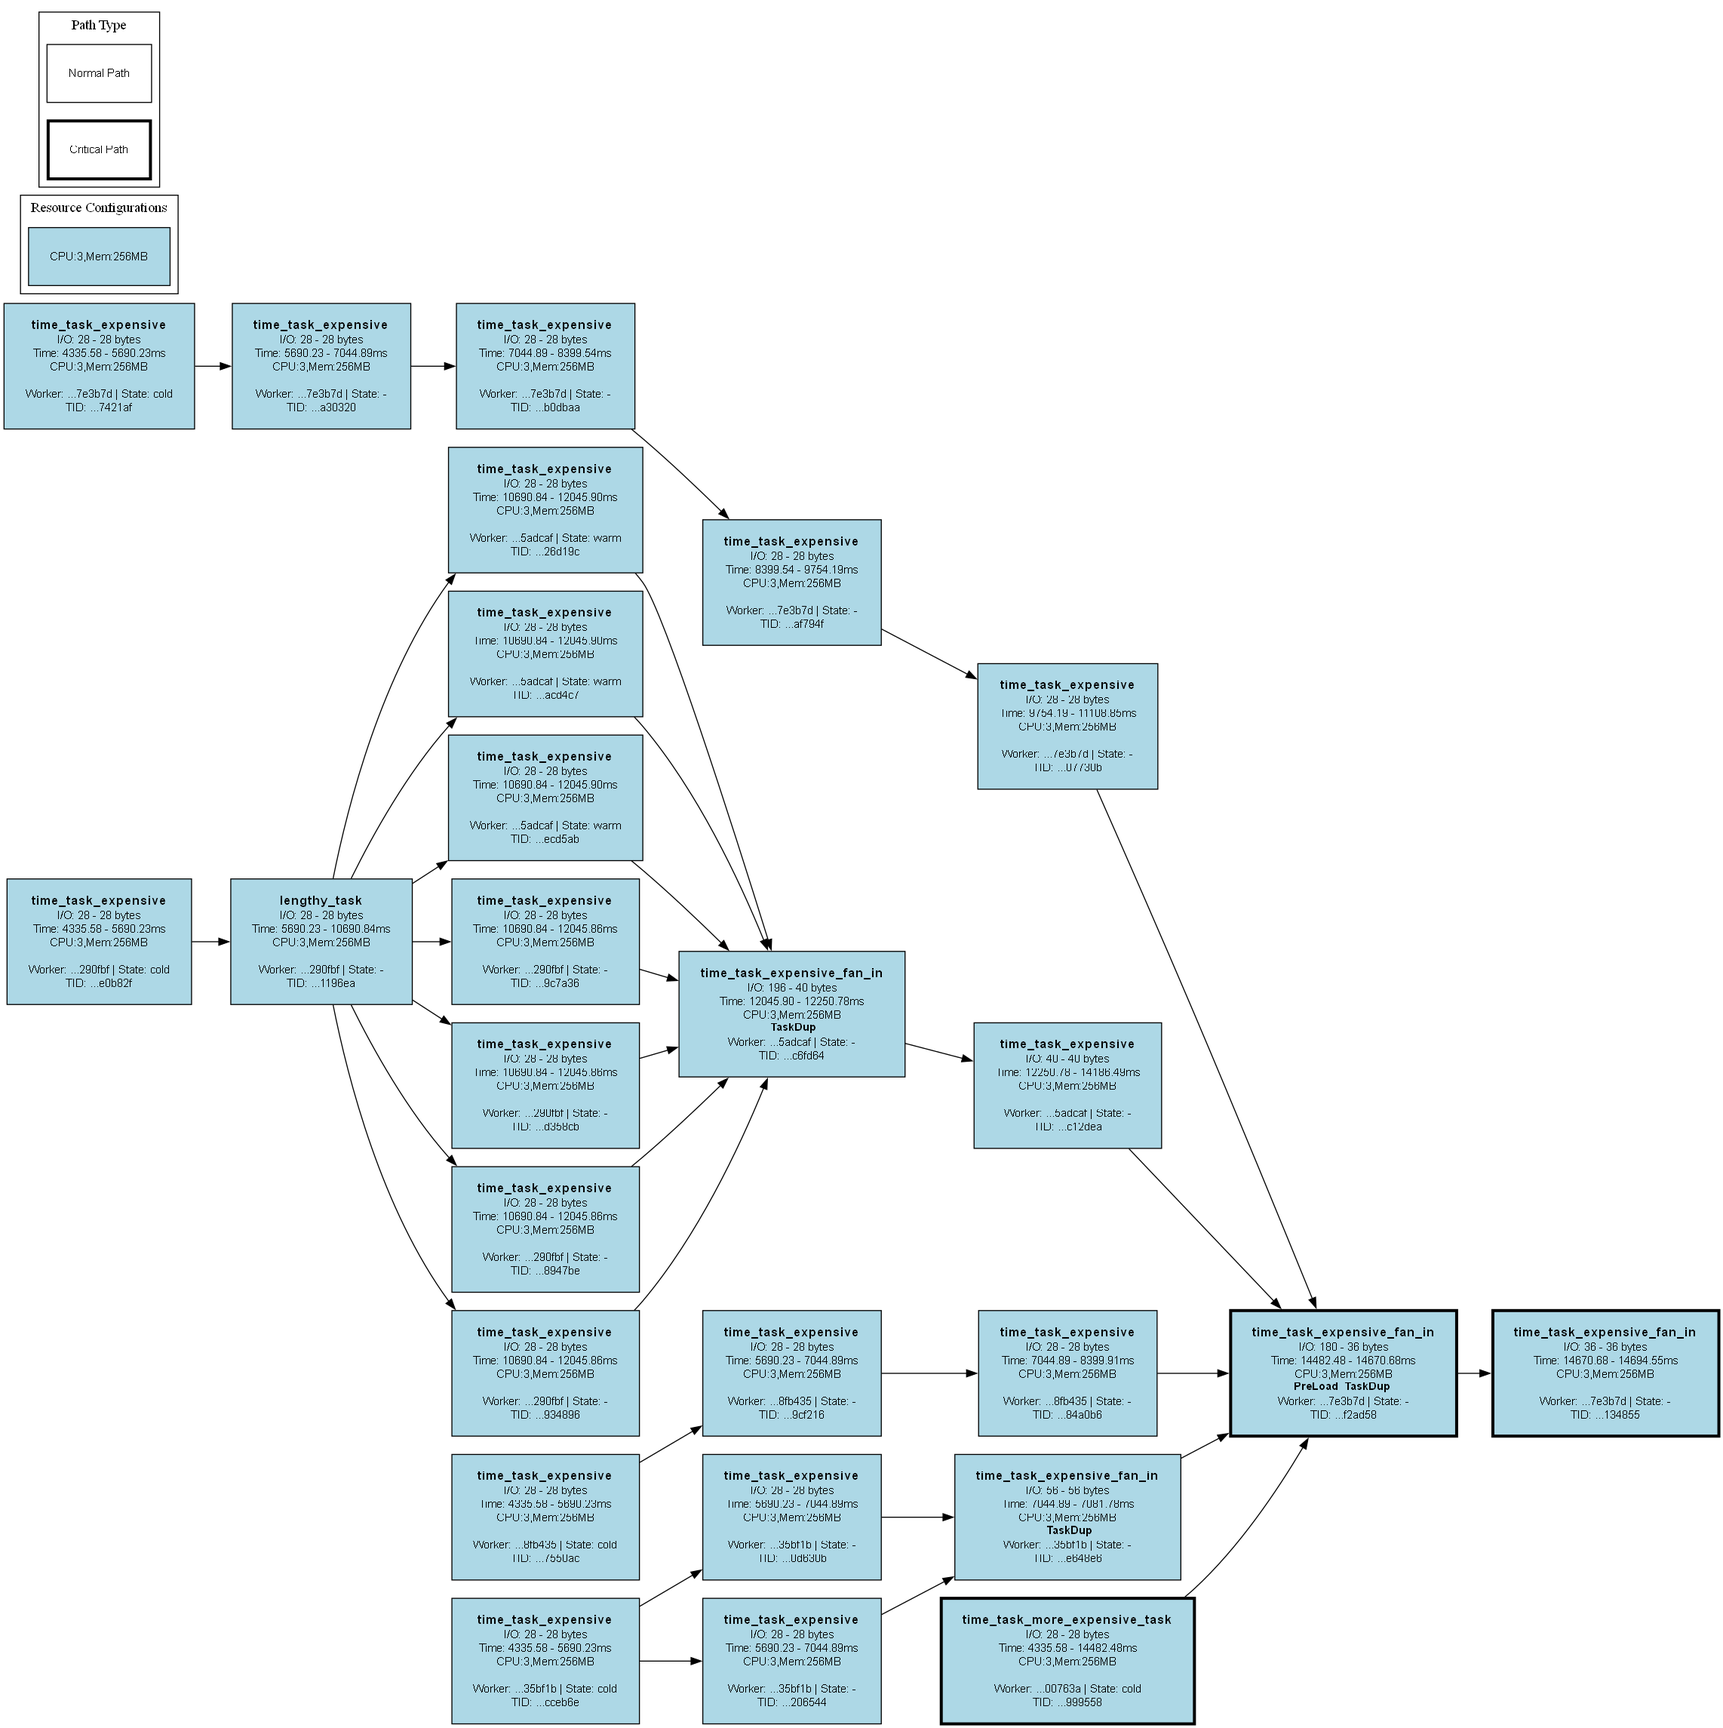
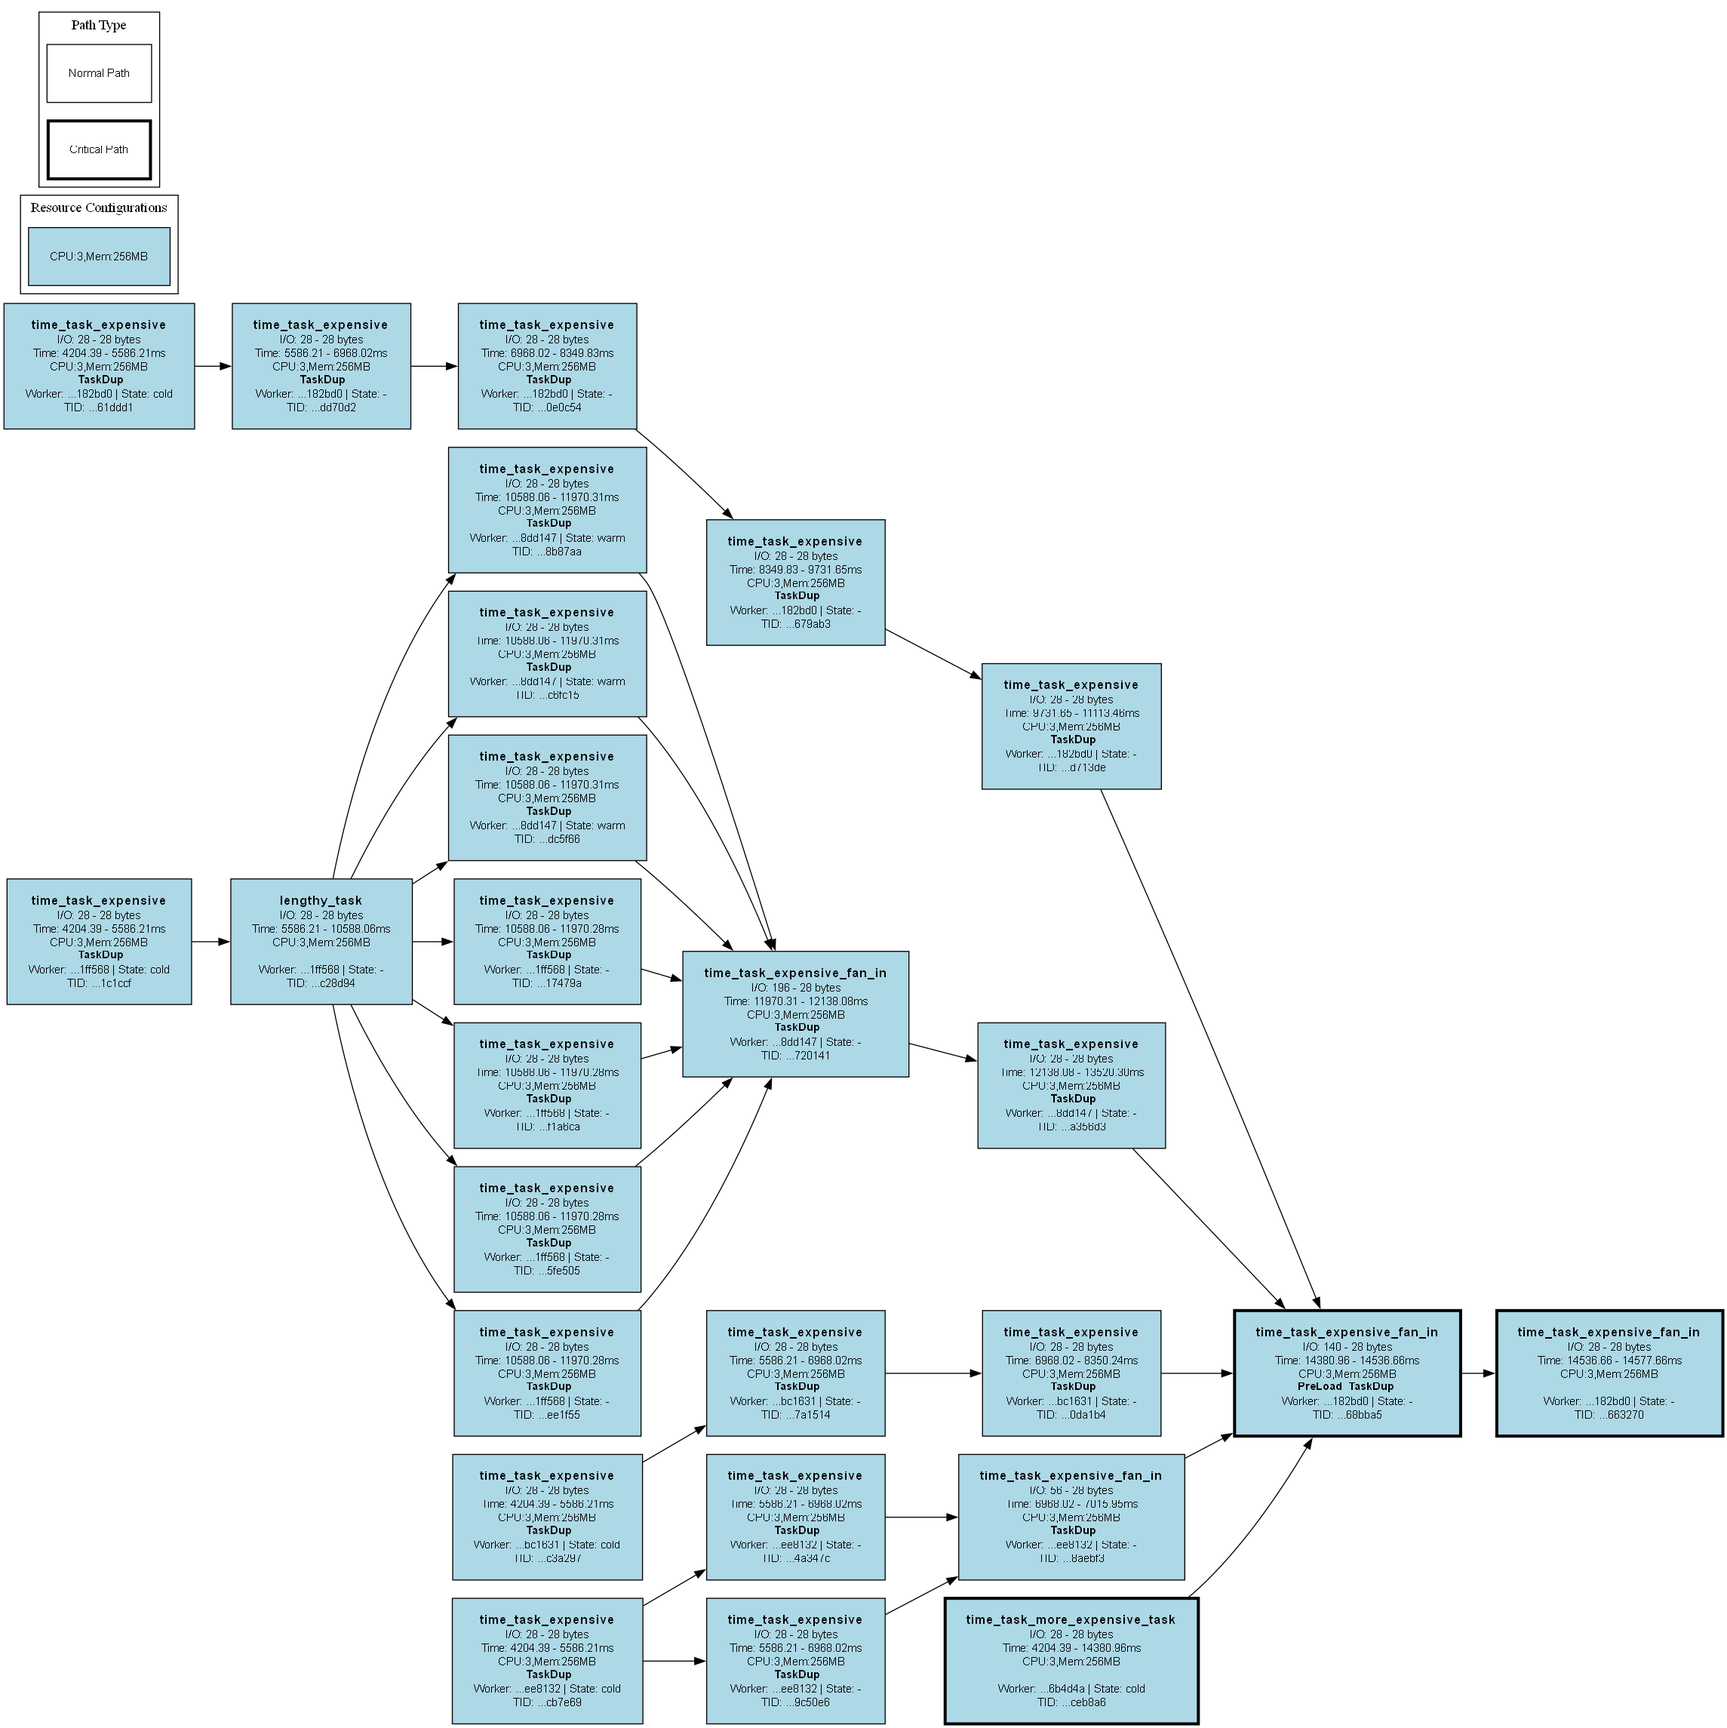
refactored and tested dupping logic isolated in WEL override

diff --git a/src/workers/worker.py b/src/workers/worker.py
@@ -1,14 +1,13 @@
 import asyncio
 from dataclasses import dataclass
 import time
-from types import coroutine
 from typing import Any
 import cloudpickle
 from abc import ABC, abstractmethod
 
 from src.planning.abstract_dag_planner import AbstractDAGPlanner
 from src.storage.events import TASK_COMPLETION_EVENT_PREFIX, TASK_READY_EVENT_PREFIX
-from src.storage.metrics.metrics_types import TaskInputMetrics, TaskInputDownloadMetrics
+from src.storage.metrics.metrics_types import TaskInputMetrics, TaskInputDownloadMetrics, TaskOutputMetrics
 from src.planning.annotations.taskdup import TaskDupOptimization, DUPPABLE_TASK_CANCELLATION_PREFIX
 from src.utils.timer import Timer
 from src.utils.utils import calculate_data_structure_size
@@ -127,13 +126,13 @@ class Worker(ABC, WorkerExecutionLogic):
                 if tasks_to_fetch:
                     for utask in tasks_to_fetch:
                         _timer = Timer()
-                        serialized_result = await self.intermediate_storage.get(utask.id.get_full_id_in_dag(subdag))
-                        if serialized_result is None:  raise TaskOutputNotAvailableException(utask.id.get_full_id())
+                        serialized_task_result = await self.intermediate_storage.get(utask.id.get_full_id_in_dag(subdag))
+                        if serialized_task_result is None:  raise TaskOutputNotAvailableException(utask.id.get_full_id())
                         time_to_fetch_ms = _timer.stop()
-                        deserialized_result = cloudpickle.loads(serialized_result)
+                        deserialized_result = cloudpickle.loads(serialized_task_result)
                         task_dependencies[utask.id.get_full_id()] = deserialized_result
                         current_task.metrics.input_metrics.input_download_metrics[utask.id.get_full_id()] = TaskInputDownloadMetrics(
-                            serialized_size_bytes=calculate_data_structure_size(serialized_result), 
+                            serialized_size_bytes=calculate_data_structure_size(serialized_task_result), 
                             deserialized_size_bytes=calculate_data_structure_size(deserialized_result),
                             time_ms=time_to_fetch_ms
                         )
@@ -168,10 +167,10 @@ class Worker(ABC, WorkerExecutionLogic):
                 self.log(current_task.id.get_full_id(), f"2) Executing Task...")
                 if self.planner:
                     # self.log(self.my_resource_configuration.worker_id, "PLANNER.HANDLE_EXECUTION()")
-                    task_result, task_execution_time_ms = await self.planner.override_handle_execution(current_task, task_dependencies)
+                    deserialized_task_result, task_execution_time_ms = await self.planner.override_handle_execution(current_task, task_dependencies)
                 else:
                     # self.log(self.my_resource_configuration.worker_id, "WEL.HANDLE_EXECUTION()")
-                    task_result, task_execution_time_ms = await WorkerExecutionLogic.override_handle_execution(current_task, task_dependencies)
+                    deserialized_task_result, task_execution_time_ms = await WorkerExecutionLogic.override_handle_execution(current_task, task_dependencies)
 
                 tasks_executed_by_this_coroutine.append(current_task)
 
@@ -182,26 +181,40 @@ class Worker(ABC, WorkerExecutionLogic):
                     if total_input_size > 0 else None
 
                 # TASK_DUP => may not need to upload output if another worker dupped this task
-                upload_output = True
+                try_upload_output = True
                 if not is_dupping and is_current_task_duppable:
                     if cached_dup_cancelation_flag: 
-                        upload_output = False
+                        try_upload_output = False
                     else:
                         cached_dup_cancelation_flag = await self.metadata_storage.get(f"{DUPPABLE_TASK_CANCELLATION_PREFIX}{current_task.id.get_full_id_in_dag(subdag)}")
                         if cached_dup_cancelation_flag:
                             self.log(current_task.id.get_full_id(), "Task is being dupped by another worker. Won't upload output...")
-                            upload_output = False
+                            try_upload_output = False
 
                 #* 3) HANDLE TASK OUTPUT
-                if upload_output:
+                serialized_task_result = cloudpickle.dumps(deserialized_task_result)
+                current_task.metrics.output_metrics = TaskOutputMetrics(
+                    serialized_size_bytes=calculate_data_structure_size(serialized_task_result),
+                    deserialized_size_bytes=calculate_data_structure_size(deserialized_task_result),
+                    tp_time_ms=None
+                )
+
+                if try_upload_output:
                     self.log(current_task.id.get_full_id(), f"3) Handling Task Output...")
                     if self.planner:
                         # self.log(self.my_resource_configuration.worker_id, "PLANNER.HANDLE_OUTPUT()")
-                        await self.planner.override_handle_output(task_result, current_task, subdag, self.intermediate_storage, self.metadata_storage, self.my_resource_configuration.worker_id)
+                        upload_output = await self.planner.override_should_upload_output(current_task, subdag, self.my_resource_configuration.worker_id)
                     else:
                         # self.log(self.my_resource_configuration.worker_id, "WEL.HANDLE_OUTPUT()")
-                        await WorkerExecutionLogic.override_handle_output(task_result, current_task, subdag, self.intermediate_storage, self.metadata_storage, self.my_resource_configuration.worker_id)
+                        upload_output = await WorkerExecutionLogic.override_should_upload_output(current_task, subdag, self.my_resource_configuration.worker_id)
+                    
+                    if upload_output:
+                        output_upload_timer = Timer()
+                        await self.intermediate_storage.set(current_task.id.get_full_id_in_dag(subdag), serialized_task_result)
+                        current_task.metrics.output_metrics.tp_time_ms = output_upload_timer.stop()
                 
+                await self.metadata_storage.publish(f"{TASK_COMPLETION_EVENT_PREFIX}{current_task.id.get_full_id_in_dag(subdag)}", b"1")
+
                 if current_task.id.get_full_id() == subdag.sink_node.id.get_full_id():
                     self.log(current_task.id.get_full_id(), f"Sink task finished. Shutting down worker...")
                     break

diff --git a/src/workers/worker_execution_logic.py b/src/workers/worker_execution_logic.py
@@ -40,30 +40,16 @@ class WorkerExecutionLogic():
         return (task_result, exec_timer.stop())
 
     @staticmethod
-    async def override_handle_output(task_result: Any, task, subdag: SubDAG, intermediate_storage: Storage, metadata_storage: Storage, this_worker_id: str | None):
+    async def override_should_upload_output(task, subdag: SubDAG, this_worker_id: str | None) -> bool:
+        """
+        return value indicates if the task result was uploaded or not 
+        """
         from src.dag_task_node import DAGTaskNode
         from src.planning.annotations.task_worker_resource_configuration import TaskWorkerResourceConfiguration
-        from src.planning.annotations.taskdup import TaskDupOptimization
-
         _task: DAGTaskNode = task
-        
-        _task.metrics.output_metrics = TaskOutputMetrics(
-            serialized_size_bytes=calculate_data_structure_size(cloudpickle.dumps(task_result)),
-            deserialized_size_bytes=calculate_data_structure_size(task_result), # accurate
-            tp_time_ms=None
-        )
+
         # only upload if necessary
-        has_any_duppable_downstream = any(dt.try_get_annotation(TaskDupOptimization) is not None for dt in _task.downstream_nodes)
-        if has_any_duppable_downstream or subdag.sink_node.id.get_full_id() == _task.id.get_full_id() or (this_worker_id is None or any(dt.get_annotation(TaskWorkerResourceConfiguration).worker_id is None or dt.get_annotation(TaskWorkerResourceConfiguration).worker_id != this_worker_id for dt in _task.downstream_nodes)):
-            task_result_serialized = cloudpickle.dumps(task_result)
-            _task.metrics.output_metrics.serialized_size_bytes = calculate_data_structure_size(task_result_serialized)
-            output_upload_timer = Timer()
-            await intermediate_storage.set(_task.id.get_full_id_in_dag(subdag), task_result_serialized)
-            _task.metrics.output_metrics.tp_time_ms = output_upload_timer.stop()
-        else:
-            logger.info(f"Worker({this_worker_id}) Task({task.id.get_full_id()}) WON'T upload task result. Not needed...")
-        #! Can be optimized, don't need to always be sending this
-        await metadata_storage.publish(f"{TASK_COMPLETION_EVENT_PREFIX}{_task.id.get_full_id_in_dag(subdag)}", b"1")
+        return subdag.sink_node.id.get_full_id() == _task.id.get_full_id() or (this_worker_id is None or any(dt.get_annotation(TaskWorkerResourceConfiguration).worker_id is None or dt.get_annotation(TaskWorkerResourceConfiguration).worker_id != this_worker_id for dt in _task.downstream_nodes))
 
     @staticmethod
     async def override_handle_downstream(current_task, this_worker, downstream_tasks_ready, subdag: SubDAG) -> list:

diff --git a/src/planning/annotations/taskdup.py b/src/planning/annotations/taskdup.py
@@ -11,12 +11,12 @@ from src.utils.logger import create_logger
 logger = create_logger(__name__)
 
 # if task execution time exceeds this, don't allow dupping. Short tasks are better for dupping
-DUPPABLE_TASK_MAX_EXEC_TIME_MS: float = 1_000
+DUPPABLE_TASK_MAX_EXEC_TIME_MS: float = 2_000
 # if task input size exceeds 5MB, don't allow dupping
 DUPPABLE_TASK_MAX_INPUT_SIZE: int = 1024 * 1024 * 5
 DUPPABLE_TASK_STARTED_PREFIX = "taskdup-task-started-"
 DUPPABLE_TASK_CANCELLATION_PREFIX = "taskdup-cancellation-"
-DUPPABLE_TASK_TIME_SAVED_THRESHOLD_MS = 1_000 # the least amount of time we need to save to justify duplication
+DUPPABLE_TASK_TIME_SAVED_THRESHOLD_MS = 1_500 # the least amount of time we need to save to justify duplication
 
 @dataclass
 class TaskDupOptimization(TaskAnnotation, WorkerExecutionLogic):
@@ -35,3 +35,13 @@ class TaskDupOptimization(TaskAnnotation, WorkerExecutionLogic):
         if not is_duppable: return
 
         await metadata_storage.set(f"{DUPPABLE_TASK_STARTED_PREFIX}{current_task.id.get_full_id_in_dag(subdag)}", time.time())
+
+    @staticmethod
+    async def override_handle_output(task, subdag: SubDAG, this_worker_id: str | None) -> bool:
+        from src.dag_task_node import DAGTaskNode
+        from src.planning.annotations.task_worker_resource_configuration import TaskWorkerResourceConfiguration
+        _task: DAGTaskNode = task
+
+        has_any_duppable_downstream = any(dt.get_annotation(TaskWorkerResourceConfiguration).worker_id is None or dt.get_annotation(TaskWorkerResourceConfiguration).worker_id != this_worker_id for dt in _task.downstream_nodes)
+
+        return has_any_duppable_downstream or subdag.sink_node.id.get_full_id() == _task.id.get_full_id() or (this_worker_id is None or any(dt.get_annotation(TaskWorkerResourceConfiguration).worker_id is None or dt.get_annotation(TaskWorkerResourceConfiguration).worker_id != this_worker_id for dt in _task.downstream_nodes))

diff --git a/src/docker_worker_handler/worker.py b/src/docker_worker_handler/worker.py
@@ -175,7 +175,7 @@ async def main():
                                    f"Expected time saved: {expected_ready_to_exec_ts_ms - potential_ready_to_exec_ts_ms:.2f}ms, "
                                    f"Dup?: {potential_ready_to_exec_ts_ms + DUPPABLE_TASK_TIME_SAVED_THRESHOLD_MS < expected_ready_to_exec_ts_ms}ms")
                         
-                        if potential_ready_to_exec_ts_ms + DUPPABLE_TASK_TIME_SAVED_THRESHOLD_MS < expected_ready_to_exec_ts_ms:
+                        if potential_ready_to_exec_ts_ms < expected_ready_to_exec_ts_ms - DUPPABLE_TASK_TIME_SAVED_THRESHOLD_MS:
                             potential_time_saved = expected_ready_to_exec_ts_ms - potential_ready_to_exec_ts_ms
                             if potential_time_saved > greatest_predicted_time_saved:
                                 greatest_predicted_time_saved = potential_time_saved

diff --git a/src/planning/second_planner_algorithm.py b/src/planning/second_planner_algorithm.py
@@ -390,3 +390,9 @@ class SecondPlannerAlgorithm(AbstractDAGPlanner):
         """
         res = await PreLoadOptimization.override_handle_inputs(intermediate_storage, task, subdag, upstream_tasks_without_cached_results, worker_resource_config, task_dependencies)
         return res
+
+    @staticmethod
+    async def override_should_upload_output(task, subdag: SubDAG, this_worker_id: str | None) -> bool:
+        from src.planning.annotations.taskdup import TaskDupOptimization
+        res = await TaskDupOptimization.override_should_upload_output(task, subdag, this_worker_id)
+        return res

diff --git a/src/planning/first_planner_algorithm.py b/src/planning/first_planner_algorithm.py
@@ -234,3 +234,9 @@ class FirstPlannerAlgorithm(AbstractDAGPlanner):
         """
         res = await PreLoadOptimization.override_handle_inputs(intermediate_storage, task, subdag, upstream_tasks_without_cached_results, worker_resource_config, task_dependencies)
         return res
+
+    @staticmethod
+    async def override_should_upload_output(task, subdag: SubDAG, this_worker_id: str | None) -> bool:
+        from src.planning.annotations.taskdup import TaskDupOptimization
+        res = await TaskDupOptimization.override_should_upload_output(task, subdag, this_worker_id)
+        return res

diff --git a/TODO.md b/TODO.md
@@ -1,5 +1,8 @@
 # TASKDUP
-- [TODO] `has_any_duppable_downstream` check should be on Taskdup override and not in generic WorkerExecutionLogic
+- [REFACTOR] move the taskdup cancellation flags to the taskdup optimization overrides where possible
+    what about the `is_dupping` flag?
+        + 
+        use custom exception for branch execution loop cancellation?
 - [INVESTIGATE] When `taskdup` starts, the worker must cancel is subscription to task ready event of that task? (currently it's executing it twice)
 
 [NEW_ISSUES_FOUND]
@@ -8,16 +11,14 @@
     requires: rethinking order of actions by the planner algorithm
 - worker_active_periods are not being calculated correctly (circular issue where I need to these times to know warm and cold starts but I only know them if I calculate worker times). Result: worker_active_periods assumes NO worker startup time
 
-- [TODO] Update dashboards:
-    Compare SLAs ("global"):
-    - success rate (percentage of workflows that finished below the SLA)
-    - overall prediction success rate (compared to the real values)
-    PreWarm ("individual"):
-    - how many happened, which tasks had them
-    Dup ("individual"):
-    - how many happened, which tasks were dupped?
+[TODO] Add support for user-specified optimizations
+    - would it make sense for all optimizations?
+    - ? should I allow optimizations that are not used by the selected planner ?
+    - ? need to tag them (internally), to know that it was user-provided and not temporarily created by my planner ?
+    - planners should NOT remove (don't even traverse nodes when checking for the optimization that they already have)
+    - added to the decorator
 
-- [EVALUATION_PLAN]
+[EVALUATION_PLAN]
 - Write a shared google doc
     - Combinations of:
         3 planners: simple, first (uniform workers), second (non-uniform workers)
@@ -29,6 +30,15 @@
         My solution w/ WUKONG-style planner/scheduling
         ? Dask cluster running similar workflows (is it possible?)
         ? Revisit how to deploy WUKONG?
+
+- [TODO] Update dashboards:
+    Compare SLAs ("global"):
+    - success rate (percentage of workflows that finished below the SLA)
+    - overall prediction success rate (compared to the real values)
+    PreWarm ("individual"):
+    - how many happened, which tasks had them
+    Dup ("individual"):
+    - how many happened, which tasks were dupped?
 
 ---
 
